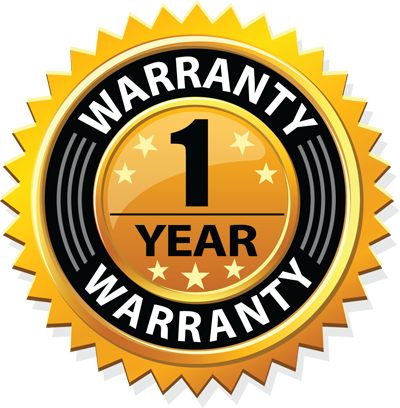
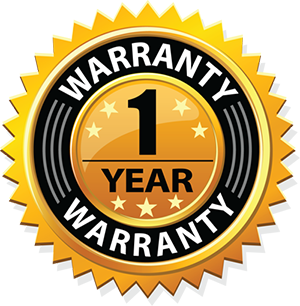
More work on index

diff --git a/index.html b/index.html
@@ -110,7 +110,7 @@
                 <div class="carousel-caption">
                   <h1></h1>
                   <p></p>
-                  <p><a class="btn btn-lg btn-theme-red" href="#" role="button">Order Today!</a></p>
+                  <p><a class="btn btn-lg btn-theme-red" href="http://store.impalaarchery.com/products/" target="_new" role="button">Order Today!</a></p>
                 </div>
               </div>
             </div>
@@ -225,57 +225,55 @@
                 <!-- begin row -->
                 <div class="row">
                     <!-- begin col-8 -->
-                    <div class="col-md-4 col-sm-4">
-                        <div class="service" data-animation="true" data-animation-type="fadeInLeft">
+                    <div class="col-md-6 col-sm-6">
+                        <div class="service" data-animation="true" data-animation-type="bounceIn">
                             <img class="learn_image" src="assets/img/prod5_med.png">
                             <p class="desc"><i>*Standard package shown with custom mounted sight and stabilizers.  Mount existing equipment and anything you want!</i></p>
                         </div>
                     </div>
                     <!-- end col-8 -->
                     <!-- begin col-4 -->
-                    <div class="col-md-4 col-sm-4">
-                        <div class="service" data-animation="true" data-animation-type="fadeInLeft">
-                            <div class="icon bg-theme" data-animation="true" data-animation-type="bounceIn"><i class="fa fa-bullseye"></i></div>
+                    <div class="col-md-6 col-sm-6">
+                        <div class="service" data-animation="true" data-animation-type="fadeInRight">
+                            <div class="icon bg-theme" data-animation="true" data-animation-type="bounceIn"><i class="fa fa-check"></i></div>
                             <div class="info">
                                 <h3 class="title">Dry Fire. No Arrows Needed.</h3>
-                                <p class="desc">Simulated clicker provides consistency in reacting to a clicker. Use a mechanical or finger release under identical tension.</p>
+                                <p class="desc">No arrows required at all.  This is one of the only bows you can dry fire!</p>
                             </div>
                         </div>
                         <div class="service" data-animation="true" data-animation-type="fadeInRight">
-                            <div class="icon bg-theme" data-animation="true" data-animation-type="bounceIn"><i class="fa fa-file"></i></div>
+                            <div class="icon bg-theme" data-animation="true" data-animation-type="bounceIn"><i class="fa fa-check"></i></div>
                             <div class="info">
                                 <h3 class="title">Accomodates Recurve & Compound</h3>
-                                <p class="desc">Develop a consistent anchor and commit to muscle memory.  Simulated tension provides a consistent backwall for reliable training.</p>
+                                <p class="desc">Train for recurve or compound, up to 32 inch draw length.</p>
                             </div>
                         </div>
                         <div class="service" data-animation="true" data-animation-type="fadeInRight">
-                            <div class="icon bg-theme" data-animation="true" data-animation-type="bounceIn"><i class="fa fa-file"></i></div>
+                            <div class="icon bg-theme" data-animation="true" data-animation-type="bounceIn"><i class="fa fa-check"></i></div>
                             <div class="info">
                                 <h3 class="title">Wide Range of Mounting Holes</h3>
-                                <p class="desc">Develop back tension for consistent feel and relase.  Learn how to keep back tension under control and promote muscle memory.</p>
+                                <p class="desc">Mount your own sight, stabalizers, and more, completely customizable.</p>
                             </div>
                         </div>
-                    </div>
-                    <div class="col-md-4 col-sm-4">
                         <div class="service" data-animation="true" data-animation-type="fadeInRight">
-                            <div class="icon bg-theme" data-animation="true" data-animation-type="bounceIn"><i class="fa fa-file"></i></div>
+                            <div class="icon bg-theme" data-animation="true" data-animation-type="bounceIn"><i class="fa fa-check"></i></div>
                             <div class="info">
                                 <h3 class="title">Clicker Control (Recurve)</h3>
-                                <p class="desc">Develop back tension for consistent feel and relase.  Learn how to keep back tension under control and promote muscle memory.</p>
+                                <p class="desc">Simulate clicker release control and increase your game!</p>
                             </div>
                         </div>
                         <div class="service" data-animation="true" data-animation-type="fadeInRight">
-                            <div class="icon bg-theme" data-animation="true" data-animation-type="bounceIn"><i class="fa fa-file"></i></div>
+                            <div class="icon bg-theme" data-animation="true" data-animation-type="bounceIn"><i class="fa fa-check"></i></div>
                             <div class="info">
                                 <h3 class="title">Stable Backwall (Compound)</h3>
-                                <p class="desc">Develop back tension for consistent feel and relase.  Learn how to keep back tension under control and promote muscle memory.</p>
+                                <p class="desc">Solid backwall.  Simulates a holding weight from 16 to 26 lbs.</p>
                             </div>
                         </div>
                         <div class="service" data-animation="true" data-animation-type="fadeInRight">
-                            <div class="icon bg-theme" data-animation="true" data-animation-type="bounceIn"><i class="fa fa-file"></i></div>
+                            <div class="icon bg-theme" data-animation="true" data-animation-type="bounceIn"><i class="fa fa-check"></i></div>
                             <div class="info">
                                 <h3 class="title">Right & Left Handed</h3>
-                                <p class="desc">Develop back tension for consistent feel and relase.  Learn how to keep back tension under control and promote muscle memory.</p>
+                                <p class="desc">Can be used by right and left handed archers!</p>
                             </div>
                         </div>
                     </div>
@@ -307,11 +305,11 @@
                             </div>
                             <ul class="features">
                                 <li><img src="assets/img/prod3.png"></li>
-                                <li>Shootdowns</li>
-                                <li>League Management</li>
-                                <li>Special Orders</li>
-                                <li>And More...</li>
-                                <li><a href="#demo">Access the Demo Here</a></li>
+                                <li>Sight & Laswer /w Activation Cord</li>
+                                <li>Clicker & Complete Arrow Simulator /w Cord</li>
+                                <li>Bobble Leveling Device</li>
+                                <li>Arm Protection & Main String Stops & Extensions</li>
+                                <li>String /w Elastic Bands Attached /w Brackets and D-Loop</li>
                             </ul>
                             <div class="footer">
                                 <a href="http://store.impalaarchery.com/ak-k-extreme-standard-package/" target="_new" class="btn btn-inverse btn-theme">Order Now!</a>
@@ -328,11 +326,12 @@
                             </div>
                             <ul class="features">
                                 <li><img src="assets/img/prod2.png"></li>
-                                <li>Code to Place on Website</li>
-                                <li>SmartTV Display Access</li>
-                                <li>Manage Unlimited Lanes</li>
-                                <li>Pay Yearly: $499 (Save $100)</li>
-                                <li>24/7 Email support</li>
+                                <li><b>10" Front stablizer with quick disconnect and 3oz. weights</b></li>
+                                <li>Sight & Laswer /w Activation Cord</li>
+                                <li>Clicker & Complete Arrow Simulator /w Cord</li>
+                                <li>Bobble Leveling Device</li>
+                                <li>Arm Protection & Main String Stops & Extensions</li>
+                                <li>String /w Elastic Bands Attached /w Brackets and D-Loop</li>
                             </ul>
                             <div class="footer">
                                 <a href="http://store.impalaarchery.com/ak-k-extreme-full-package/" target="_new" class="btn btn-inverse btn-theme">Order Now!</a>
@@ -346,6 +345,91 @@
         <!-- end #pricing -->
 
 
+        <!-- beign #warranty -->
+        <div id="warranty" class="content" data-scrollview="true">
+            <!-- begin container -->
+            <div class="container">
+                <h1 class="content-title">WARRANTY</h1>
+                <p class="content-desc">
+                    <i>The AK&K eXtreme warranty applies to only the original owner and is not transferable.</i>
+                </p>
+                <!-- begin row -->
+                <div class="row">
+                    <!-- begin col-7 -->
+                    <div class="col-md-7 col-sm-7">
+                        <div class="service" data-animation="true" data-animation-type="fadeInRight">
+                            <div class="icon bg-theme" data-animation="true" data-animation-type="bounceIn"><i class="fa fa-plus-circle"></i></div>
+                            <div class="info warranty-list">
+                                <h3 class="title">Riser</h3>
+                                <p class="desc">Riser is completely covered.</p>
+                            </div>
+                        </div>
+                        <div class="service" data-animation="true" data-animation-type="fadeInRight">
+                            <div class="icon bg-theme" data-animation="true" data-animation-type="bounceIn"><i class="fa fa-plus-circle"></i></div>
+                            <div class="info warranty-list">
+                                <h3 class="title">String Stops</h3>
+                                <p class="desc">String stops covered from defect.</p>
+                            </div>
+                        </div>
+                        <div class="service" data-animation="true" data-animation-type="fadeInRight">
+                            <div class="icon bg-theme" data-animation="true" data-animation-type="bounceIn"><i class="fa fa-plus-circle"></i></div>
+                            <div class="info warranty-list">
+                                <h3 class="title">Elastic Band Mounting Brackets</h3>
+                                <p class="desc">Mounting brackets are covered from defect.</p>
+                            </div>
+                        </div>
+                    </div>
+                    <!-- end col-7 -->
+                    <!-- begin col-5 -->
+                    <div class="col-md-5 col-sm-5">
+                        <div class="service" data-animation="true" data-animation-type="bounceIn">
+                            <img class="warranty" src="assets/img/warranty.png">
+                        </div>
+                    </div>
+                    <!-- end col-5 -->
+                </div>
+                <!-- end row -->
+                <br><br>
+                <!-- begin row -->
+                <div class="row">
+                    <!-- begin col-7 -->
+                    <div class="col-md-7 col-sm-7">
+                        <div class="service" data-animation="true" data-animation-type="fadeInRight">
+                            <div class="icon bg-theme" data-animation="true" data-animation-type="bounceIn"><i class="fa fa-plus-circle"></i></div>
+                            <div class="info warranty-list">
+                                <h3 class="title">Arrow Simulator</h3>
+                                <p class="desc">Limited warranty on arrow simulator.</p>
+                            </div>
+                        </div>
+                        <div class="service" data-animation="true" data-animation-type="fadeInRight">
+                            <div class="icon bg-theme" data-animation="true" data-animation-type="bounceIn"><i class="fa fa-plus-circle"></i></div>
+                            <div class="info warranty-list">
+                                <h3 class="title">Original Sight</h3>
+                                <p class="desc">Limited warranty on package sight.</p>
+                            </div>
+                        </div>
+                        <div class="service" data-animation="true" data-animation-type="fadeInRight">
+                            <div class="icon bg-theme" data-animation="true" data-animation-type="bounceIn"><i class="fa fa-plus-circle"></i></div>
+                            <div class="info warranty-list">
+                                <h3 class="title">Laser Device</h3>
+                                <p class="desc">Limited warranty on laser device.</p>
+                            </div>
+                        </div>
+                    </div>
+                    <!-- end col-7 -->
+                    <!-- begin col-5 -->
+                    <div class="col-md-5 col-sm-5">
+                        <div class="service" data-animation="true" data-animation-type="bounceIn">
+                            <img class="yearwarranty" src="assets/img/1yearwarranty.png">
+                        </div>
+                    </div>
+                    <!-- end col-5 -->
+                </div>
+                <!-- end row -->
+            </div>
+            <!-- end container -->
+        </div>
+        <!-- end #warranty -->
 
         
         <!-- begin #footer -->

diff --git a/assets/css/style.css b/assets/css/style.css
@@ -121,7 +121,7 @@ body {
     background-image: url(../img/bg1.jpg);
     background-repeat: repeat;
     font-family: 'Open Sans', "Helvetica Neue",Helvetica,Arial,sans-serif;
-    color: #b1b8be;
+    color: #c5cdd4;
     font-size: 14px;
 }
 .ie8 body {
@@ -366,7 +366,7 @@ body.page-navbar-fixed-top-sm {
 .content .content-desc {
     text-align: center;
     margin-bottom: 60px;
-    color: #242a30;
+    color: #c5cdd4;
 }
 .content.has-bg {
     padding-bottom: 60px;
@@ -699,8 +699,8 @@ body.page-navbar-fixed-top-sm {
     float: left;
     width: 50px;
     height: 50px;
-    background: #45e25b;
-    color: #fff;
+    background: #40d255;
+    color: #222;
     text-align: center;
     line-height: 50px;
     font-size: 18px;
@@ -728,6 +728,9 @@ body.page-navbar-fixed-top-sm {
     margin-left: -40px;
     margin-top: -50px;
     display: block;
+}
+.service .info p{
+    text-align: justify;
 }
 
 

diff --git a/assets/css/custom.css b/assets/css/custom.css
@@ -38,3 +38,25 @@
 	border-top: 1px solid #00590b;
 	border-bottom: 1px solid #00590b;
 }
+
+#warranty {
+	background-image: url(../img/bg_light2.jpg);
+	background-repeat: repeat;
+	border-top: 1px solid #00590b;
+	border-bottom: 1px solid #00590b;
+}
+
+.warranty-list {
+	margin-top: 25px;
+}
+
+.service .warranty {
+	height: 300px;
+	width: 375px;
+}
+
+.service .yearwarranty {
+	height: 300px;
+	width: 300px;
+	margin-left: 35px;
+}
